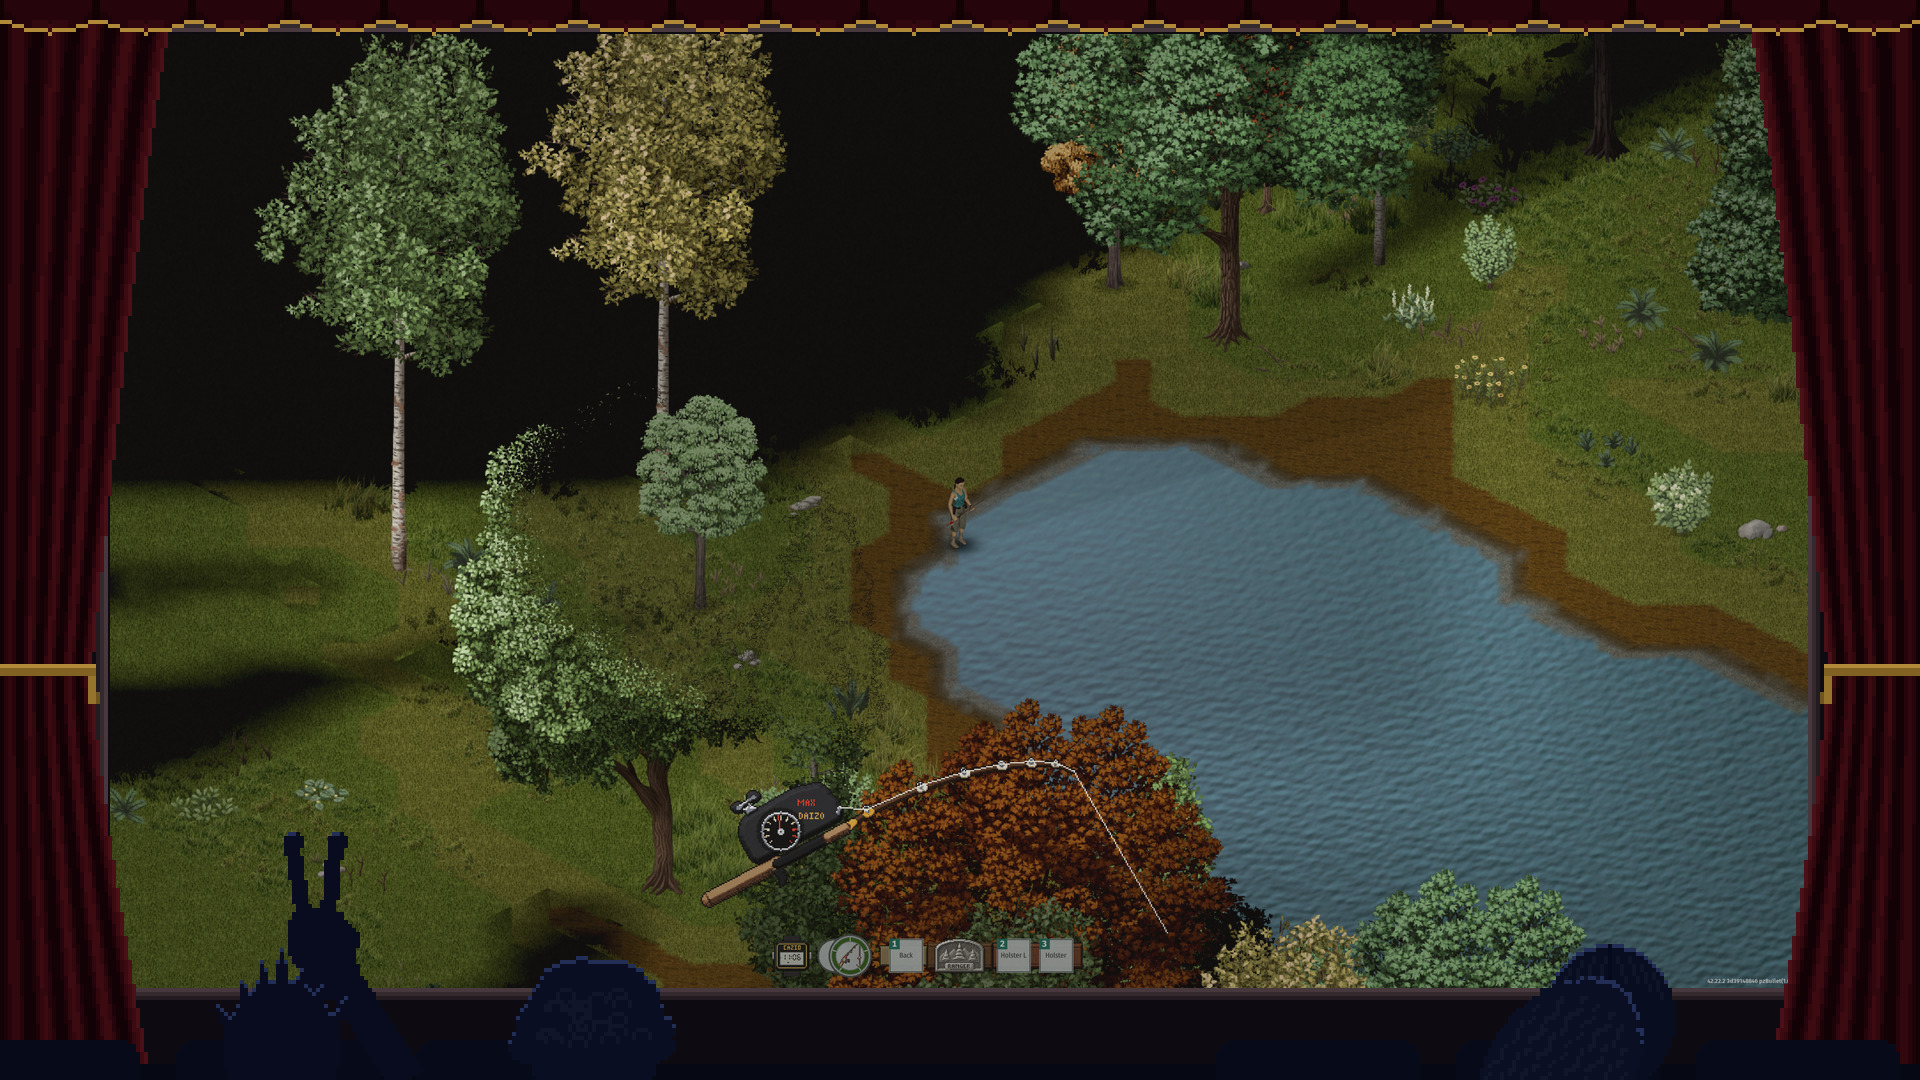
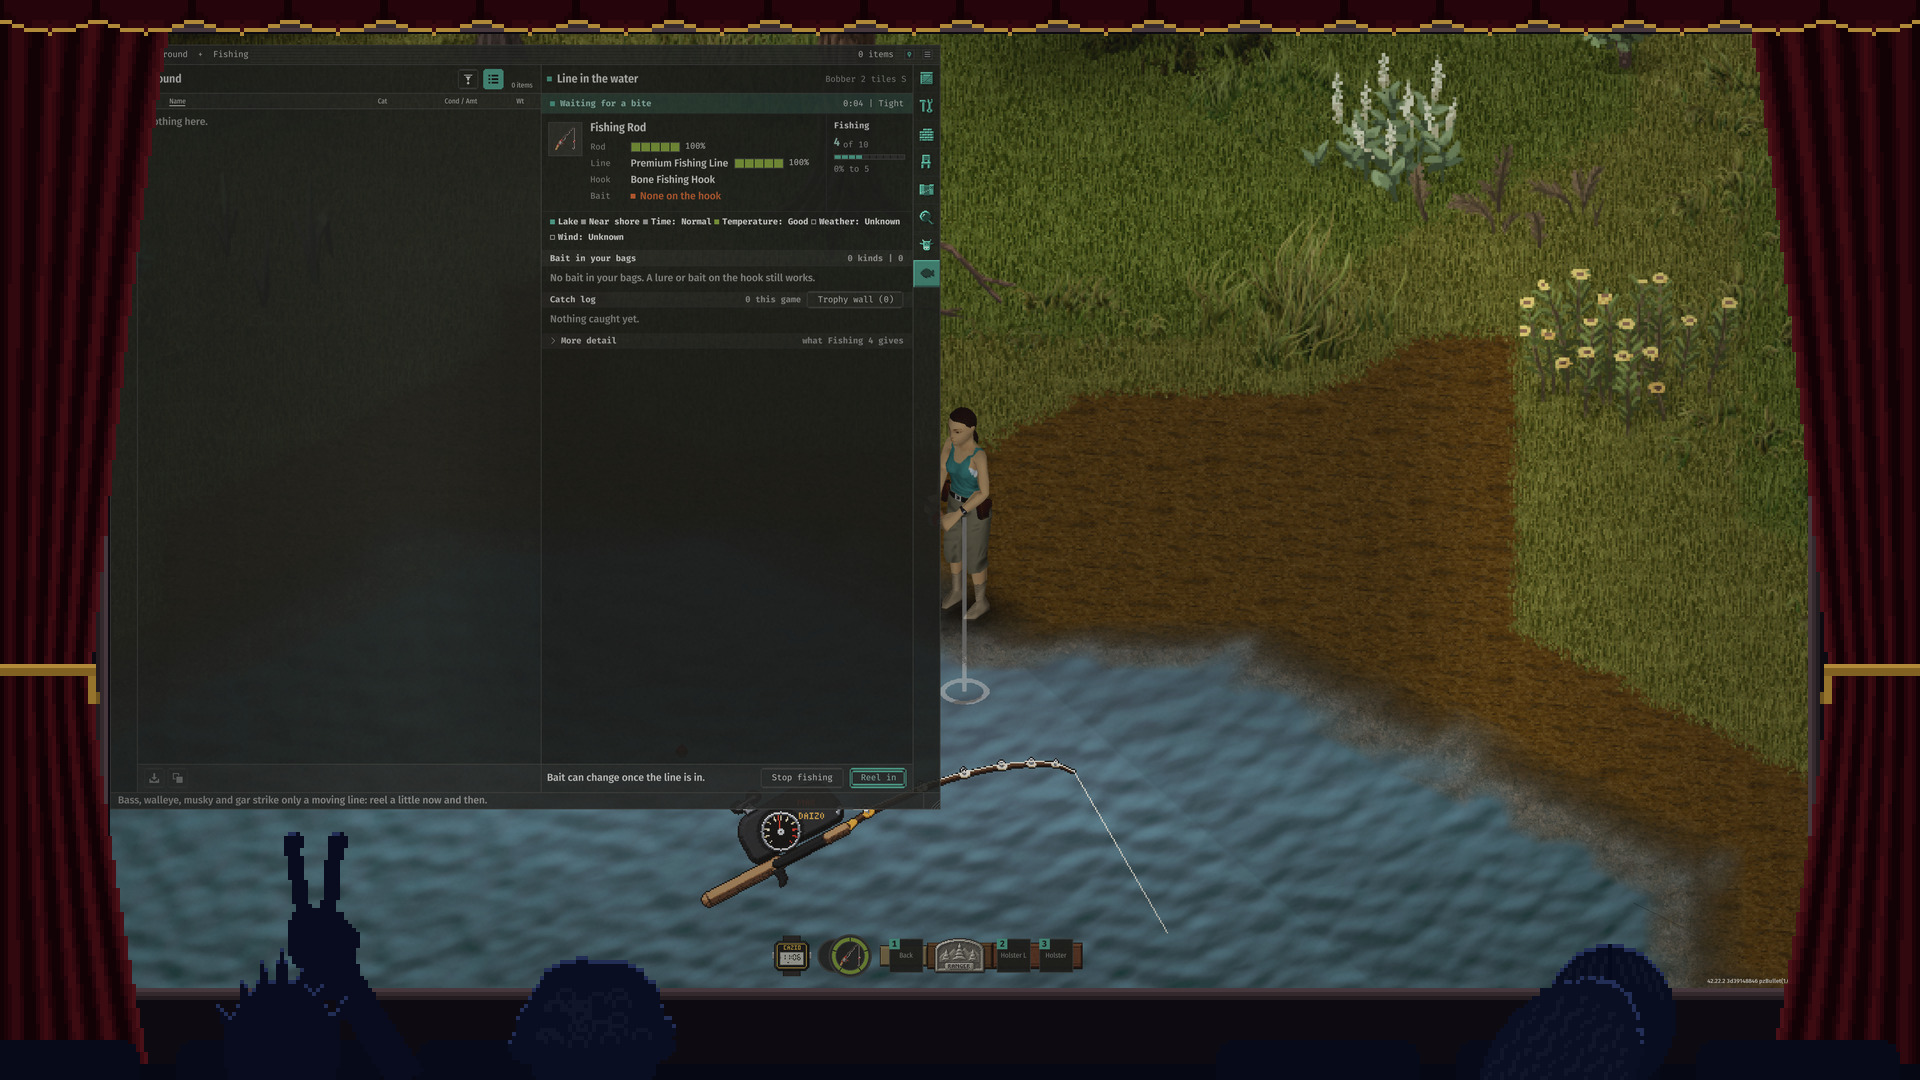
Gallery: 40b fishing break back in upload_b11 (QA's reshoot with the Fishing tab open); 83 pictures

diff --git a/ZeDUI/workshop/gallery/make_beta3.py b/ZeDUI/workshop/gallery/make_beta3.py
@@ -27,8 +27,8 @@ BREAKS = [
     ("29b_break_laura_forage", CIN + "/cin_lau_forage.jpg"),     # foraging: a sneak in search mode, the Forage tab
     ("33b_break_laura_camp", CIN + "/cin_lau_wide.jpg"),         # on screen: the belt with its holsters
     ("37b_break_mckline_radio", CIN + "/cin_mck_radio.jpg"),     # the two-way radios: the walkie in the Radio tab
-    # ("40b_break_laura_fishing", CIN + "/cin_lau_fishing.jpg"), # fishing: rod in hand, the line-tension display
-    #   (waits for the World window's Fishing tab, punch list 167; QA reshoots it with the tab open)
+    ("40b_break_laura_fishing", CIN + "/cin_lau_fishing.jpg"),   # fishing: rod in hand, the Fishing tab open
+    #   (QA's Nov 11 2026 reshoot with the World window's Fishing tab, punch list 167)
     ("44b_break_plizken_stadium", CIN + "/cin_plz_wide.jpg"),    # the controller run ends: the stadium
     ("49b_break_laura_building", CIN + "/cin_lau_build.jpg"),    # looks: the Light theme, Skills and Building
     ("55b_break_plizken_vehicle", CIN + "/cin_plz_vehicle.jpg"), # mods: the ID card (Veteran) and a wreck
